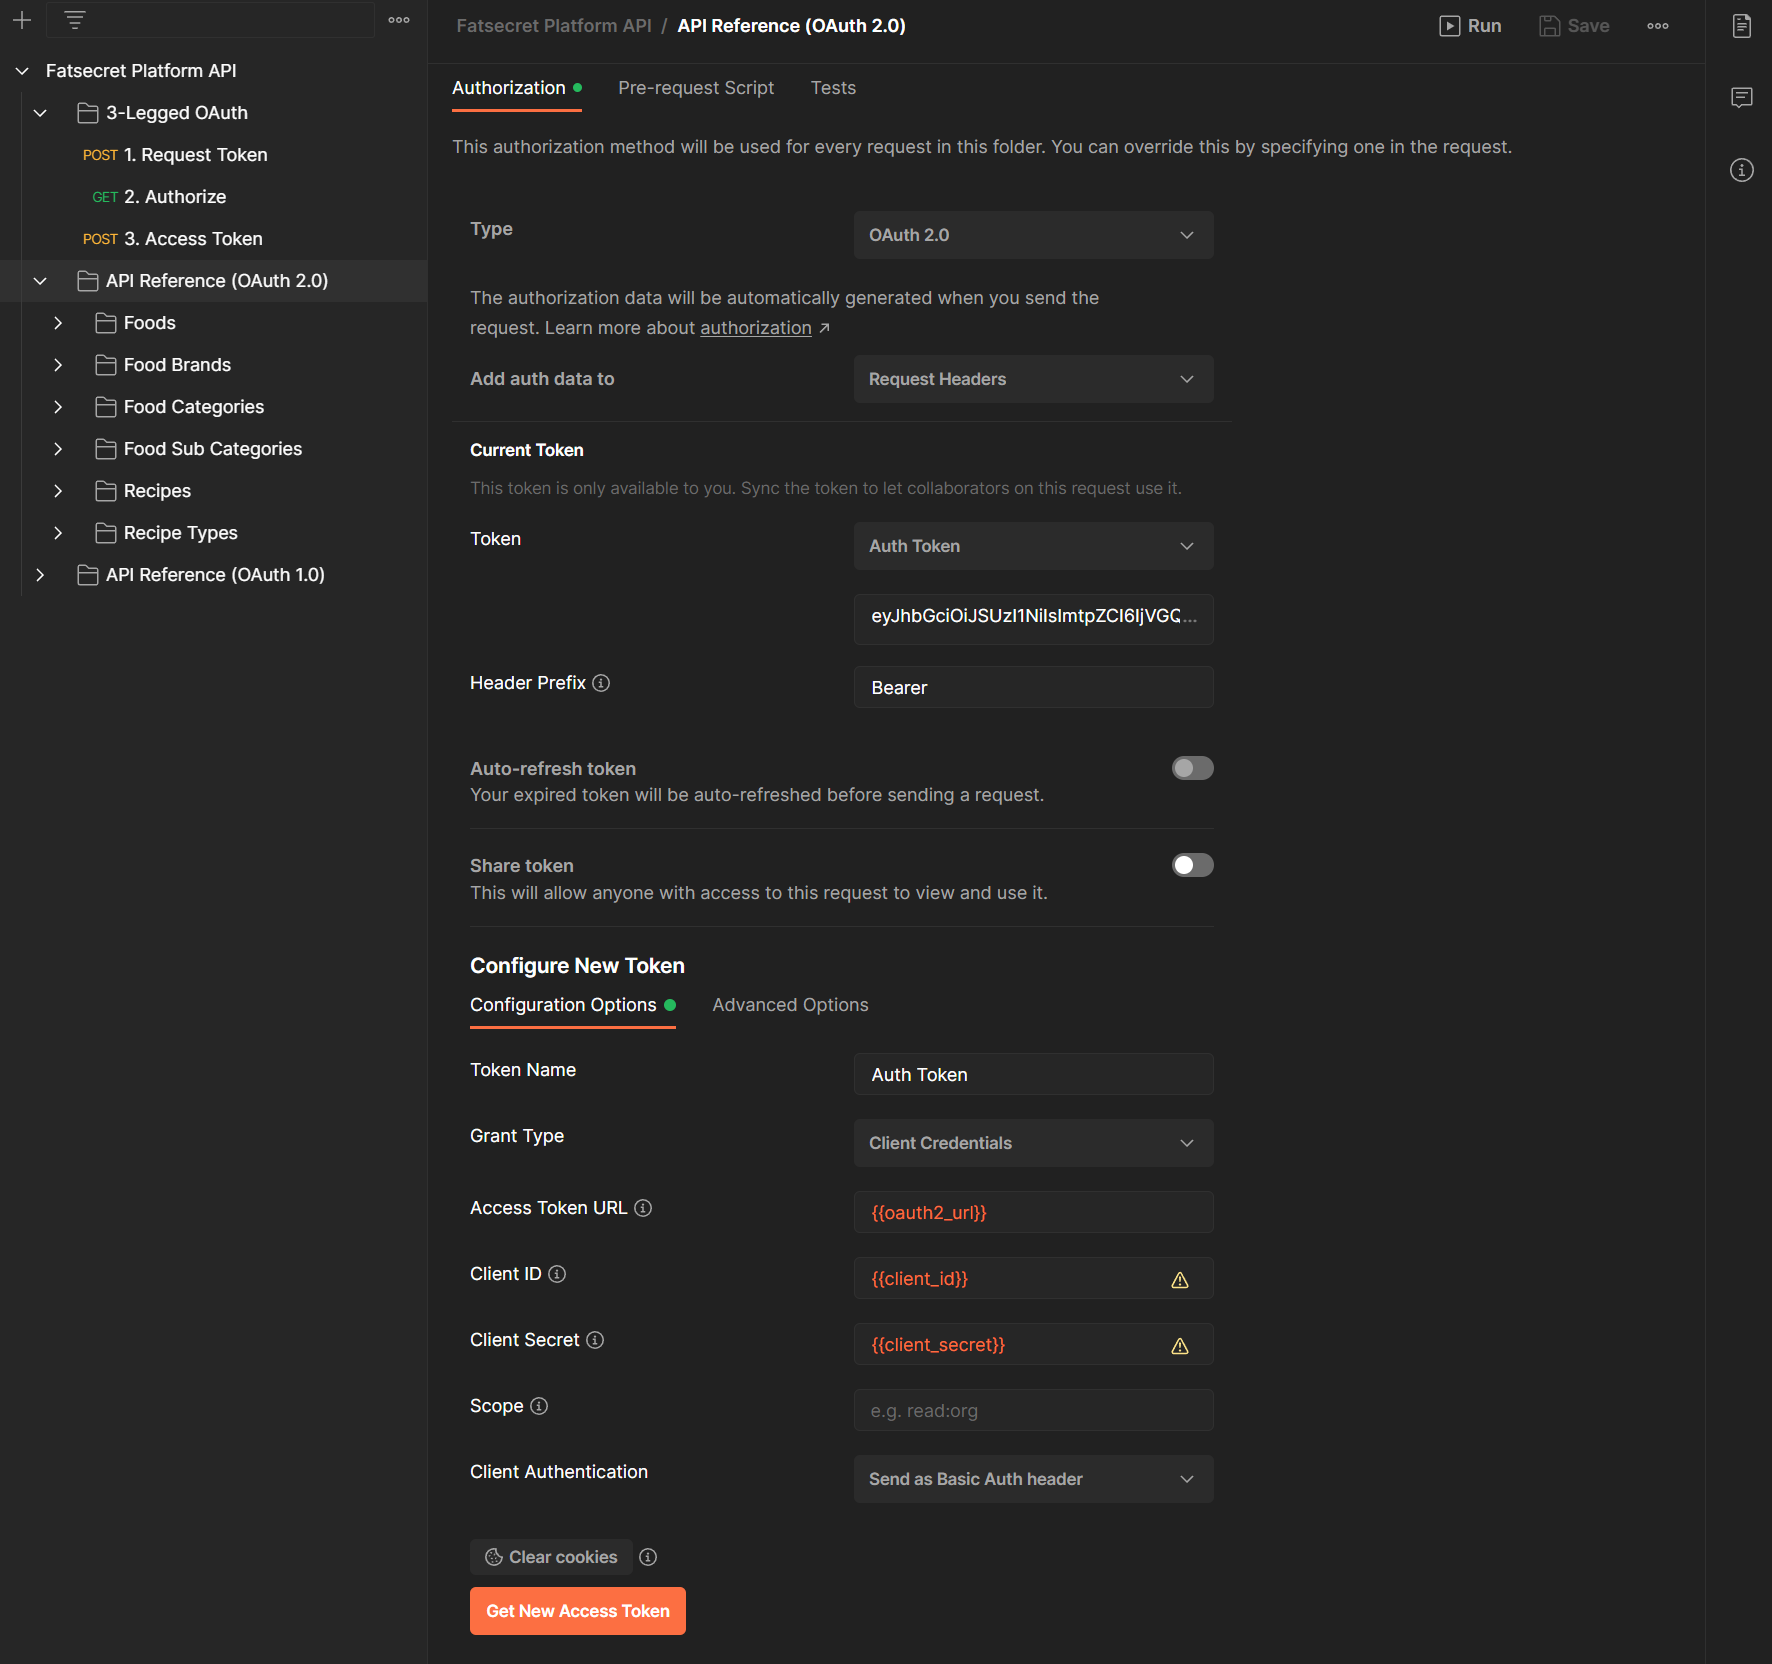
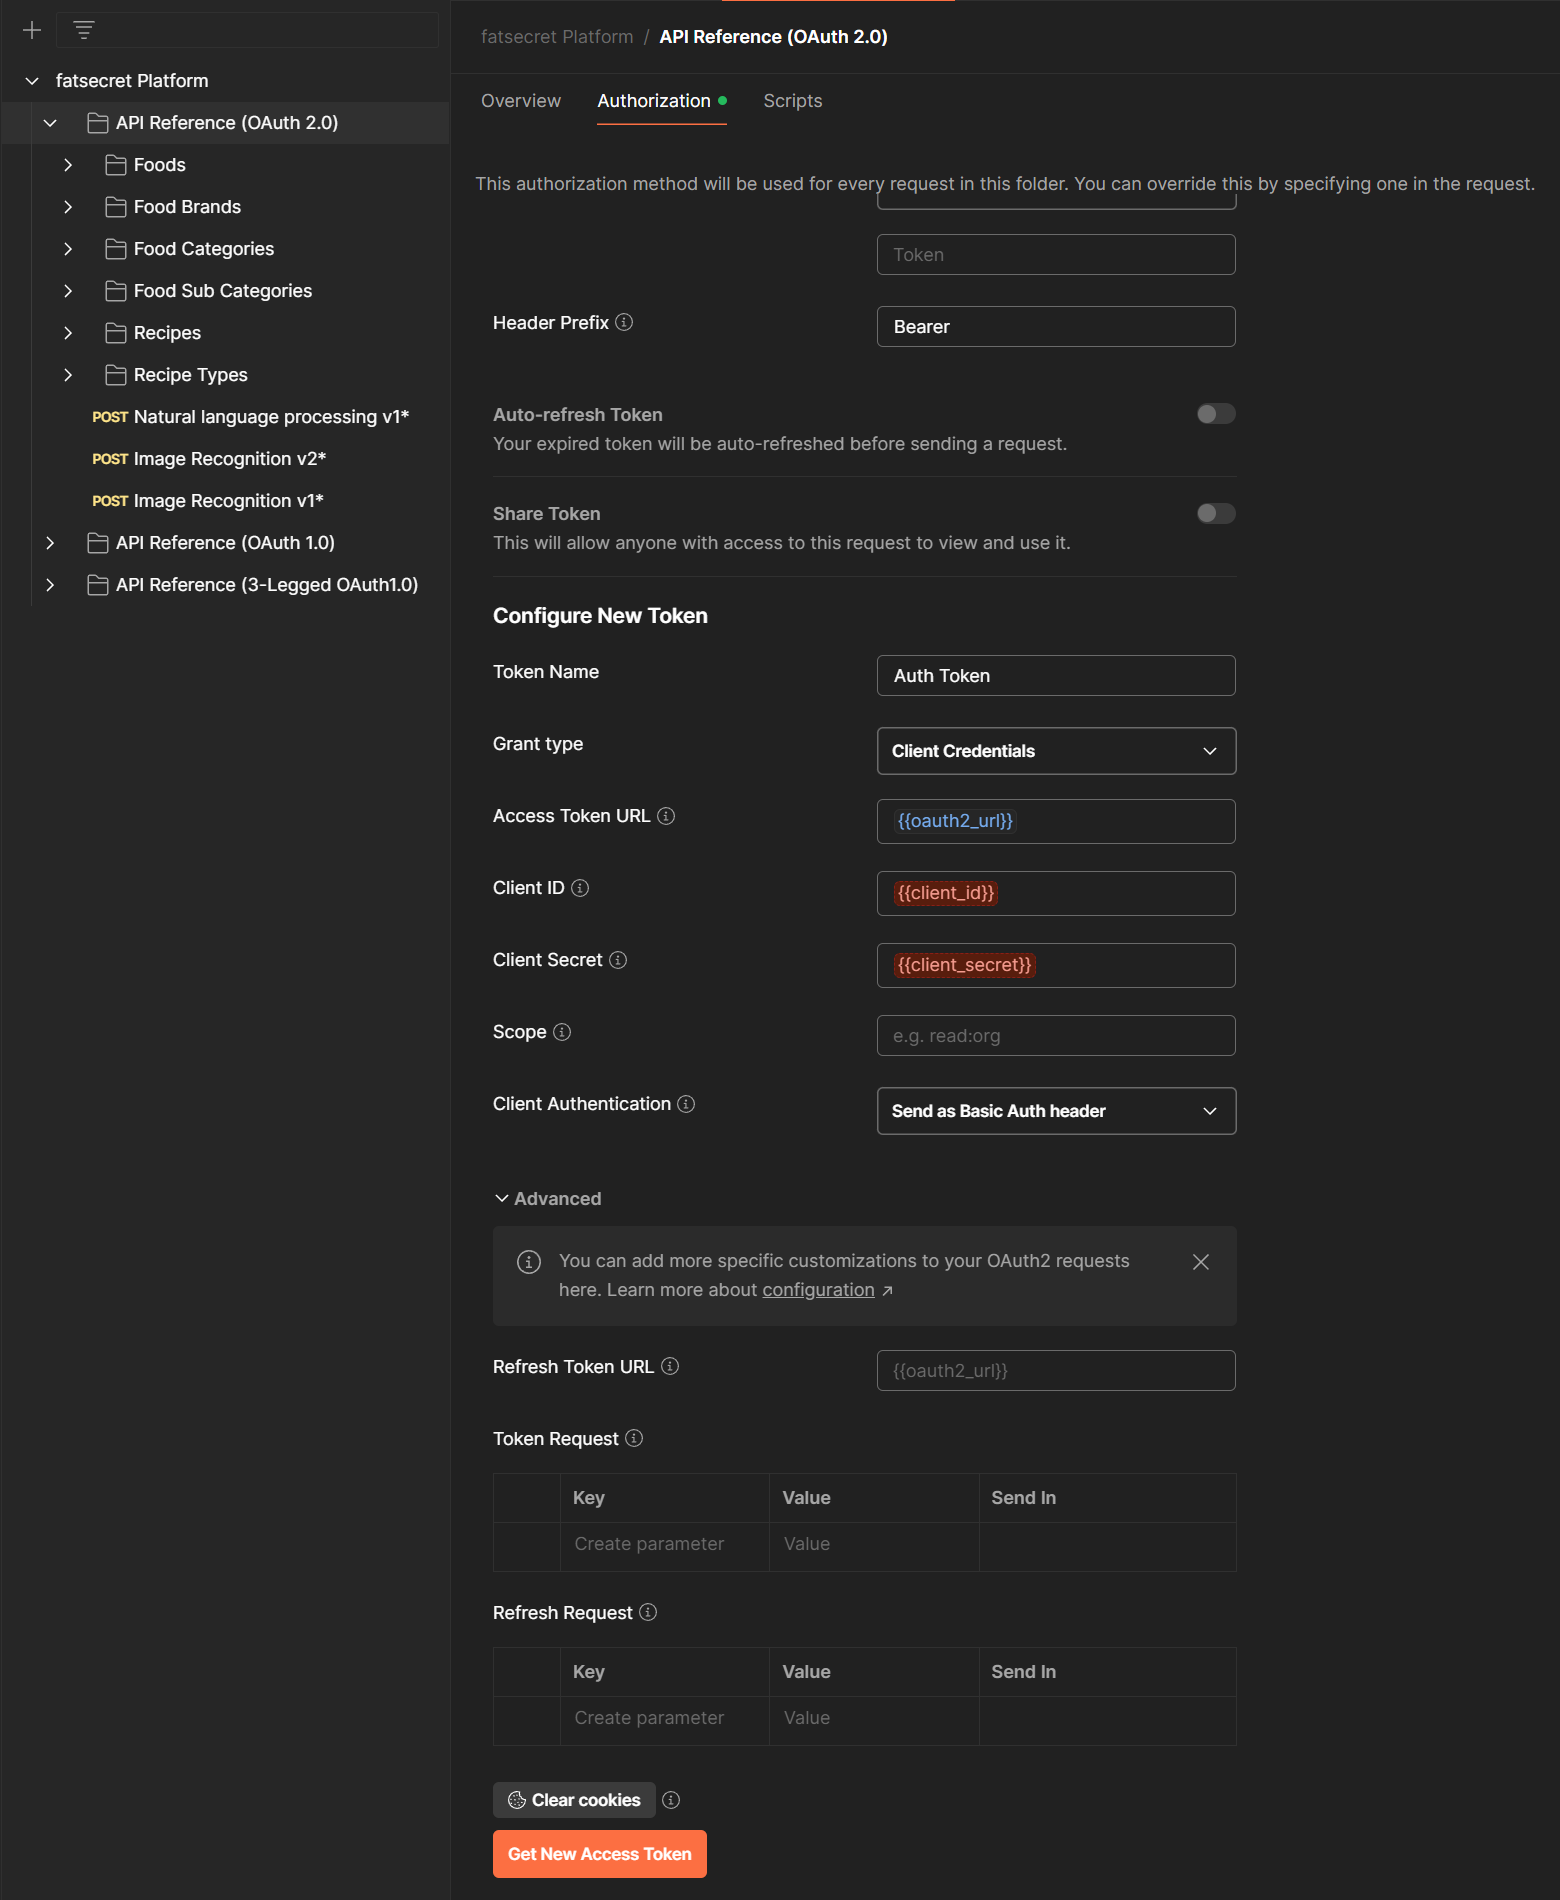
Updated screenshots and fatsecret casing

diff --git a/readme.md b/readme.md
@@ -1,12 +1,12 @@
-# FatSecret Platform API
+# fatsecret Platform API
 
 For detailed information on the API refer directly to the online [documentation](https://platform.fatsecret.com/api/Default.aspx?screen=rapih)
 
 ## Getting started
 
-1. Ensure you have created a FatSecret Platform API account [here](https://platform.fatsecret.com/api/) and sign in.
+1. Ensure you have created a fatsecret Platform API account [here](https://platform.fatsecret.com/api/) and sign in.
 
-![FatSecret Platform API](/images/platform.png)
+![fatsecret Platform API](/images/platform.png)
 
 2. Navigate to "Generate / View API Keys".
 
@@ -16,7 +16,7 @@ For detailed information on the API refer directly to the online [documentation]
 
 ![Manage API Keys](/images/view_api_keys.png)
 
-4. In the "IP Restrictions" section, whitelist your desired IP Address. We block requests to FatSecret API for OAuth2.0 for a Key/Secret if the source IP is not white listed. Up to 15 ranges of IP addresses can be whitelisted.
+4. In the "IP Restrictions" section, whitelist your desired IP Address. We block requests to fatsecret API for OAuth2.0 for a Key/Secret if the source IP is not white listed. Up to 15 ranges of IP addresses can be whitelisted.
 
 ![IP Whitelist](/images/ip_whitelist.png)
 
@@ -28,7 +28,7 @@ For detailed information on the API refer directly to the online [documentation]
 
 ![Variables](/images/variables.png)
 
-## Using OAuth 1.0 with FatSecret Platform API in Postman:
+## Using OAuth 1.0 with fatsecret Platform API in Postman:
 
 1. Navigate to API Reference (OAuth 1.0) section in postman.
 
@@ -40,7 +40,7 @@ For detailed information on the API refer directly to the online [documentation]
 
 4. Copy your newly created OAuth Key and OAuth Secret into the collection variables as access_key and access_secret.
 
-## Using OAuth 2.0 with FatSecret Platform API in Postman:
+## Using OAuth 2.0 with fatsecret Platform API in Postman:
 
 1. Navigate to API Reference (OAuth 2.0) section in postman.
 
@@ -50,7 +50,7 @@ For detailed information on the API refer directly to the online [documentation]
 
 3. Use the newly created token.
 
-## Using 3-Legged OAuth with FatSecret Platform API in Postman:
+## Using 3-Legged OAuth with fatsecret Platform API in Postman:
 
 1. Navigate to 3-Legged OAuth section in postman.
 
